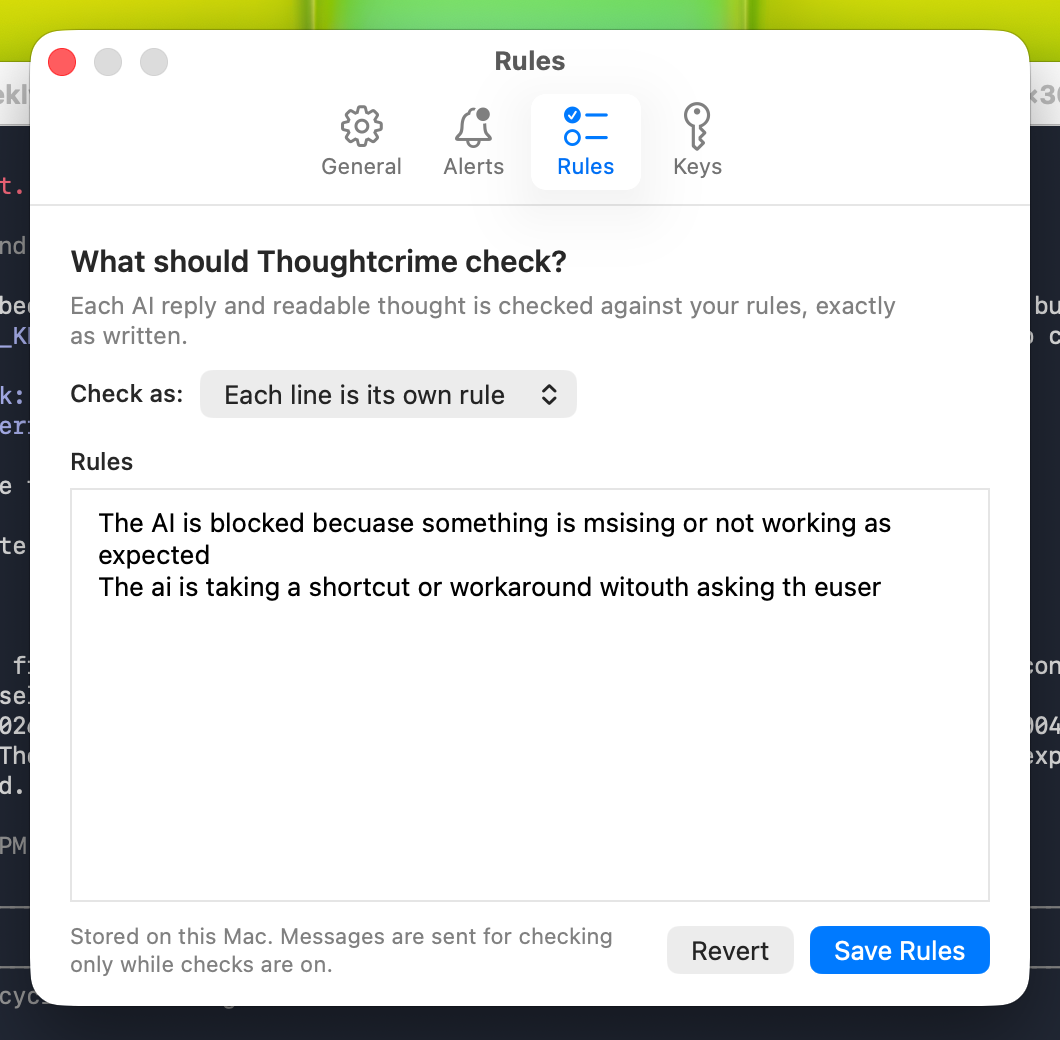
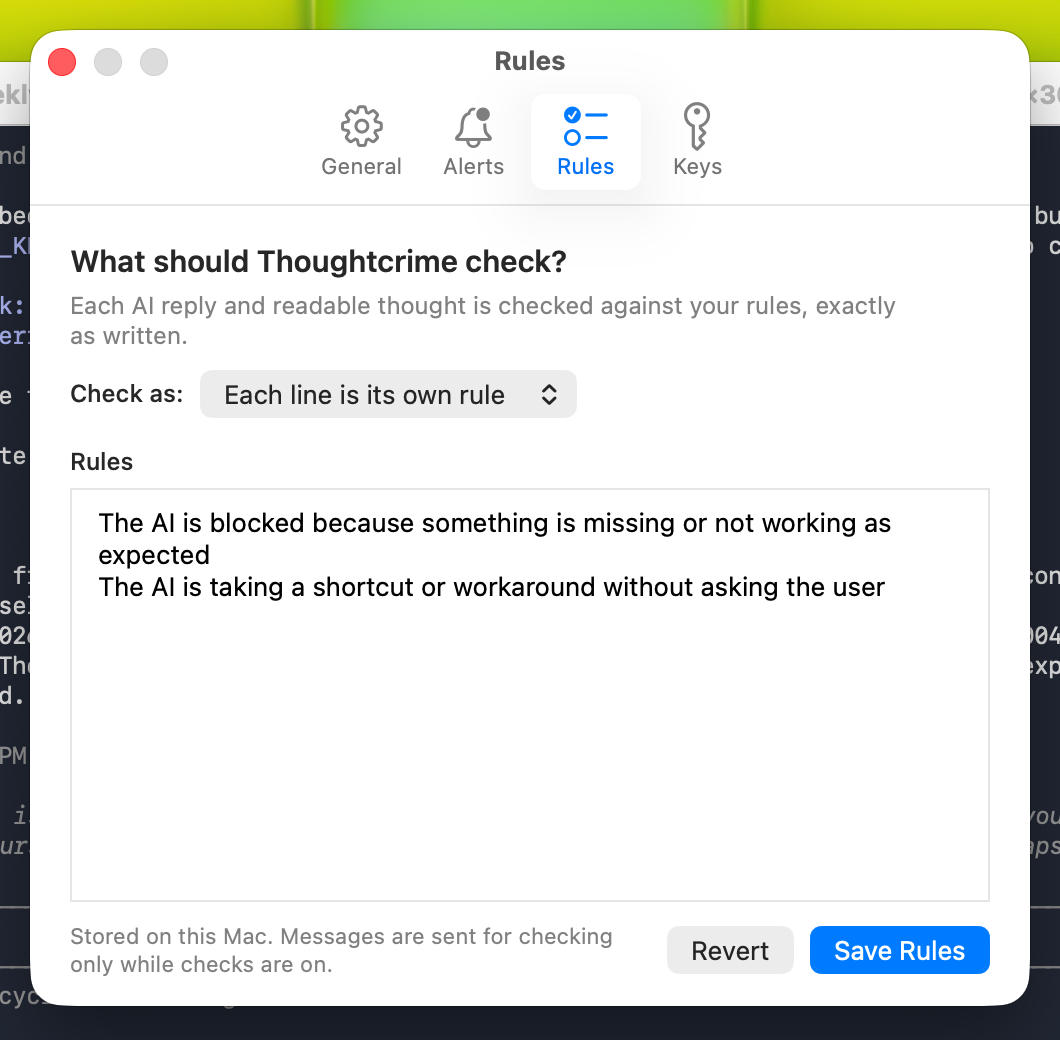
docs(blog): explain the name, doublethink line, clean rules screenshot

diff --git a/docs/blog/thoughtcrime-catches-agents-improvising/thoughtcrime-catches-agents-improvising.md b/docs/blog/thoughtcrime-catches-agents-improvising/thoughtcrime-catches-agents-improvising.md
@@ -14,6 +14,8 @@ Before it had written a single line, this showed up in its reasoning:
 
 It knew. It decided to tell me later. Then it got to work.
 
+Orwell had a word for holding "this won't work" and "let me do it anyway" in the same head at the same time: doublethink.
+
 ![Thoughtcrime reader showing the flagged thought and the checker's reason](images/reader-violation.png)
 
 Thoughtcrime flagged that thought about a second after it hit the disk, while the agent was still editing files. "Worth flagging, but let me make the edit first" is the whole post in one sentence.
@@ -38,7 +40,9 @@ That is the pattern I keep seeing. **An agent that is blocked at step one asks. 
 
 ## How it works, in a nutshell
 
-Thoughtcrime is a small macOS menu-bar app. It never touches the agent. No hook, no proxy, no wrapper.
+Thoughtcrime is a small macOS menu-bar app. Big Brother for your coding agent. The name is Orwell's: a thoughtcrime is a thought the Party would punish. Here the Party is you, the rule is yours, and the thought is the agent's.
+
+It never touches the agent. No hook, no proxy, no wrapper.
 
 1. Claude Code and Codex already write every thought, tool call and reply to a session file on disk.
 2. Thoughtcrime tails that file.
@@ -65,11 +69,11 @@ Hover the brain and you get the last catch without opening anything.
 
 Click it and the reader opens on that exact message, with the quote that matched and the checker's reason.
 
-The rule is yours. Thoughtcrime sends it to the checker exactly as you typed it. No keyword matching, no "smart" rewriting, no built-in list of bad behaviours. Here is mine, typos included, because that is what it was running with:
+The rule is yours. Thoughtcrime sends it to the checker exactly as you typed it. No keyword matching, no "smart" rewriting, no built-in list of bad behaviours. Here is mine:
 
 ![Settings › Rules with the two rules used in this post](images/settings-rules.png)
 
-"The AI is blocked becuase something is msising or not working as expected" and "The ai is taking a shortcut or workaround witouth asking th euser". Two lines, each its own rule. That's it.
+"The AI is blocked because something is missing or not working as expected" and "The AI is taking a shortcut or workaround without asking the user". Two lines, each its own rule. That's it. (The run above used the same two lines with my typos in them; the checker didn't mind.)
 
 Improvising is just the rule I care about most. The rule can be anything you can say in a sentence, and the checker reads it as written: "The AI says a test passed without showing the output." "The AI touches a file under /infra." "The AI answers in German." "The AI apologises." One line each, in your own words, and Thoughtcrime checks every thought and reply against all of them.
 
@@ -128,8 +132,8 @@ Hooks, not vibes.
 ### The two rules used in this post
 
 ```text
-The AI is blocked becuase something is msising or not working as expected
-The ai is taking a shortcut or workaround witouth asking th euser
+The AI is blocked because something is missing or not working as expected
+The AI is taking a shortcut or workaround without asking the user
 ```
 
 ### Claude Code setting for readable reasoning
